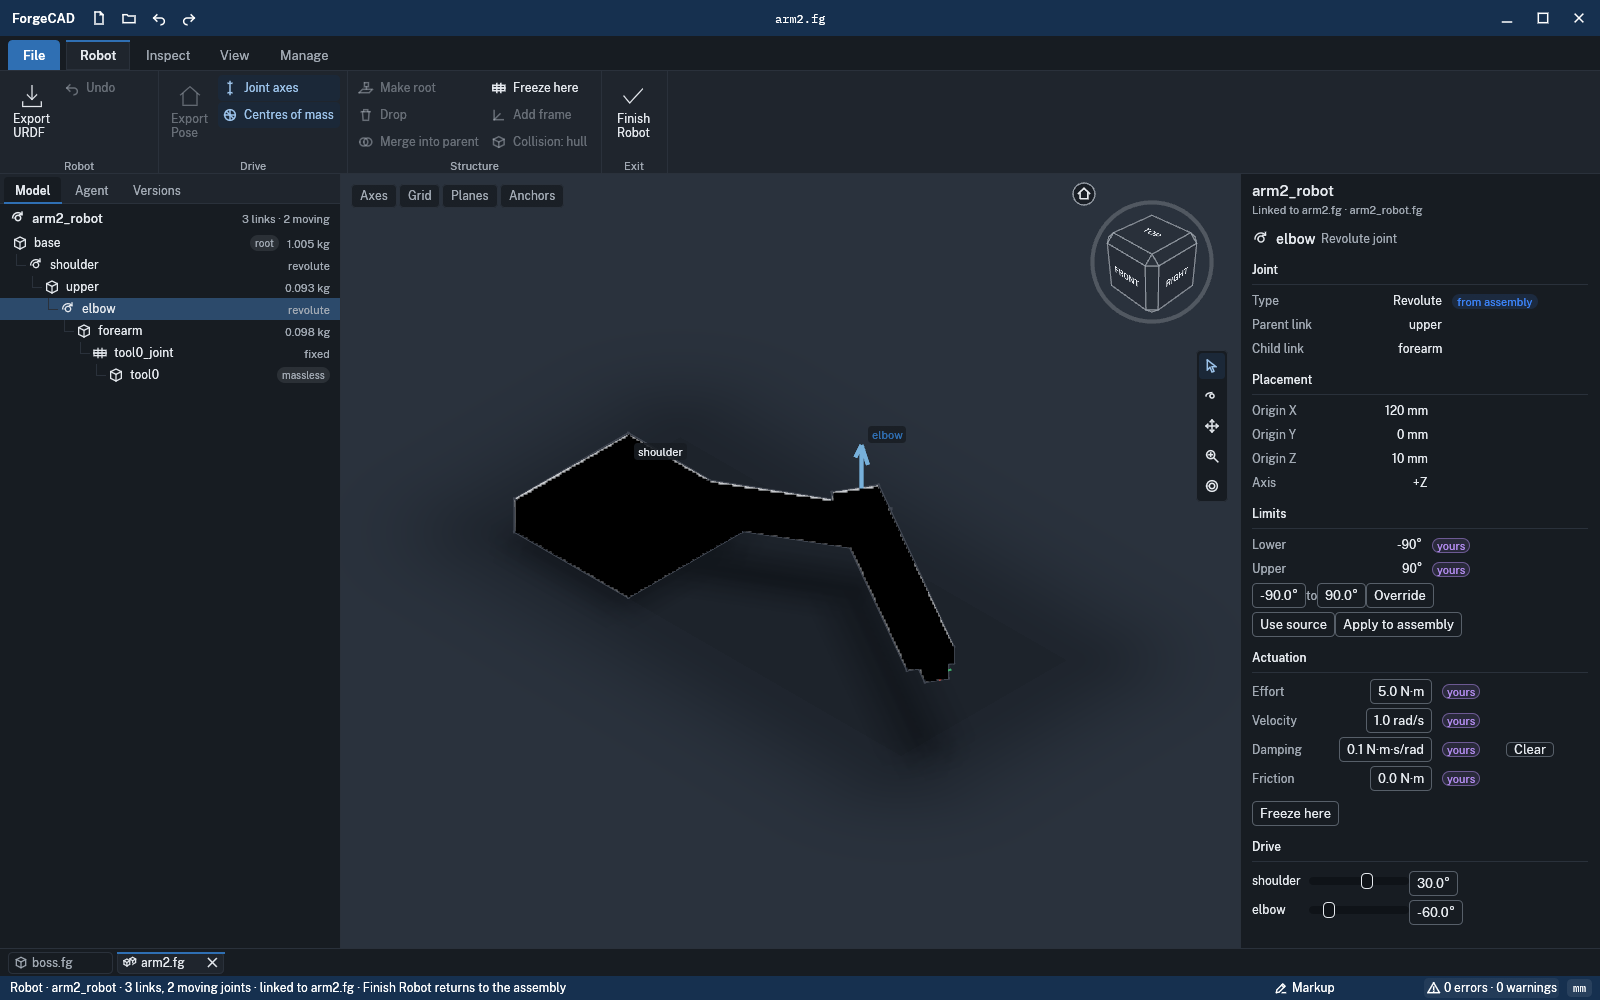
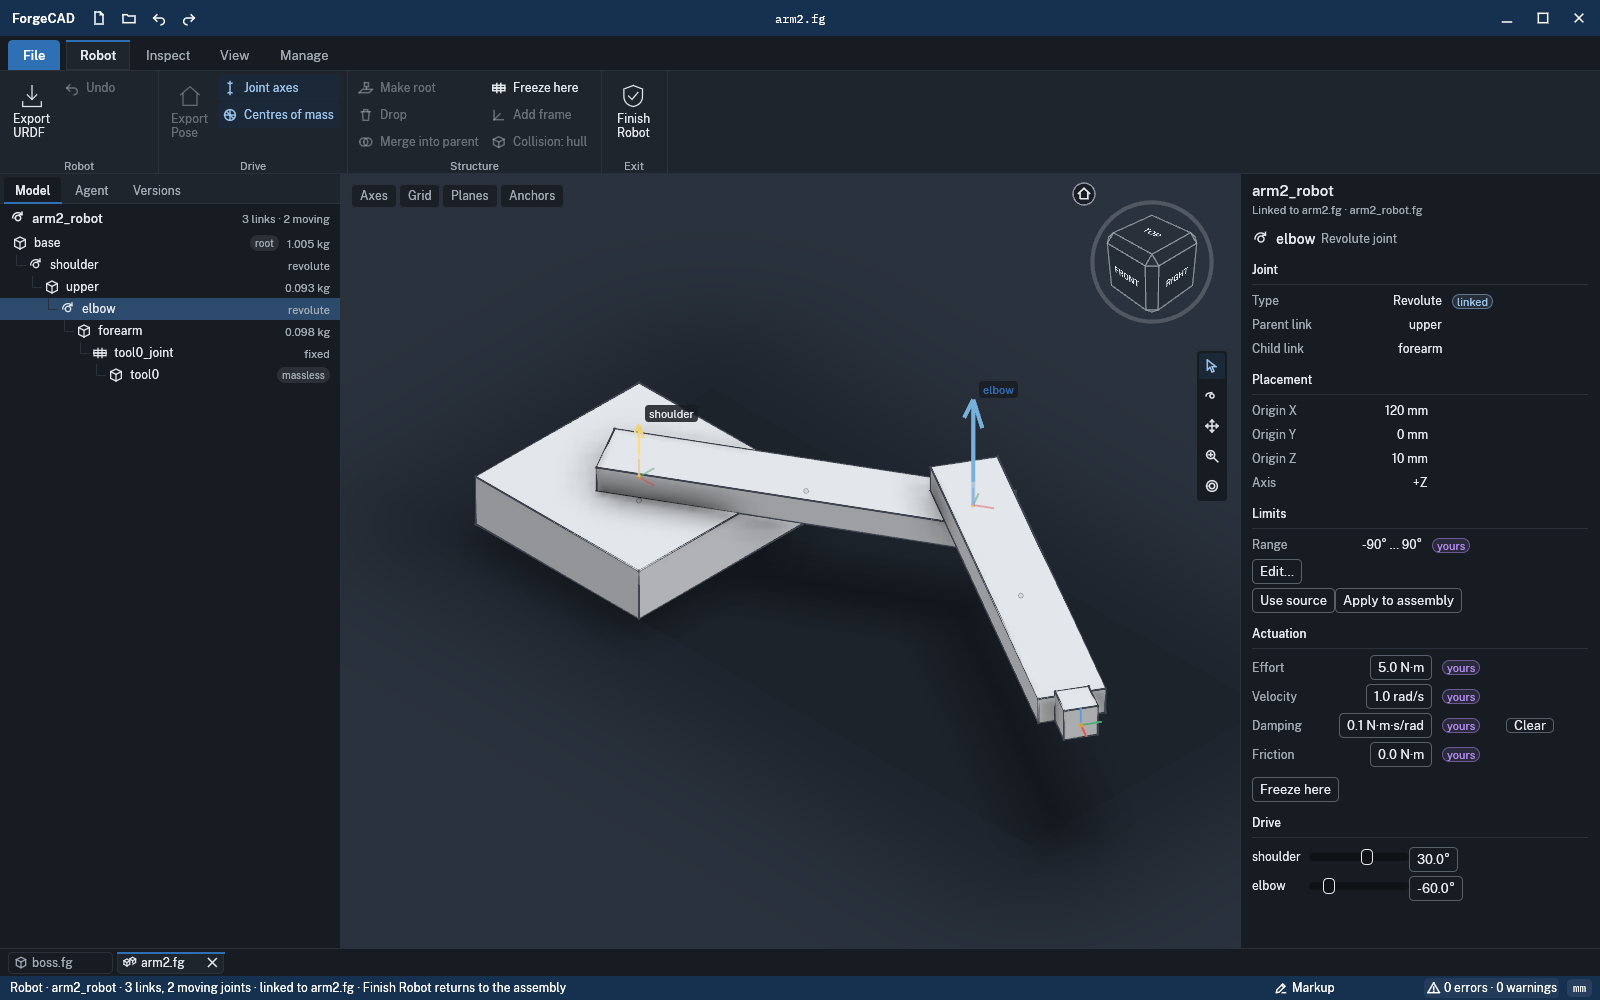
research/export/urdf-ui: the browser pictures again on the AO fix (lit like the native ones)
Claude-Session: https://claude.ai/code/session_01WJtawweJtJyywYtq1m68FH

diff --git a/research/export/urdf-ui/README.md b/research/export/urdf-ui/README.md
@@ -46,5 +46,3 @@ SwiftShader, 1600×1000), the same document:
 - `web-01-robot-open.png`, `web-02-robot-joint.png` (the elbow selected from the browser),
   `web-03-robot-link.png` (the forearm): the same layout, sheet, badges, named axis arrows and
   status line as the native pictures.
-- The parts draw black there: every assembly does in this browser set-up, the robot or not
-  (`arm2.fg` opened alone draws the same; a single part draws lit). Not the Robot environment's.
